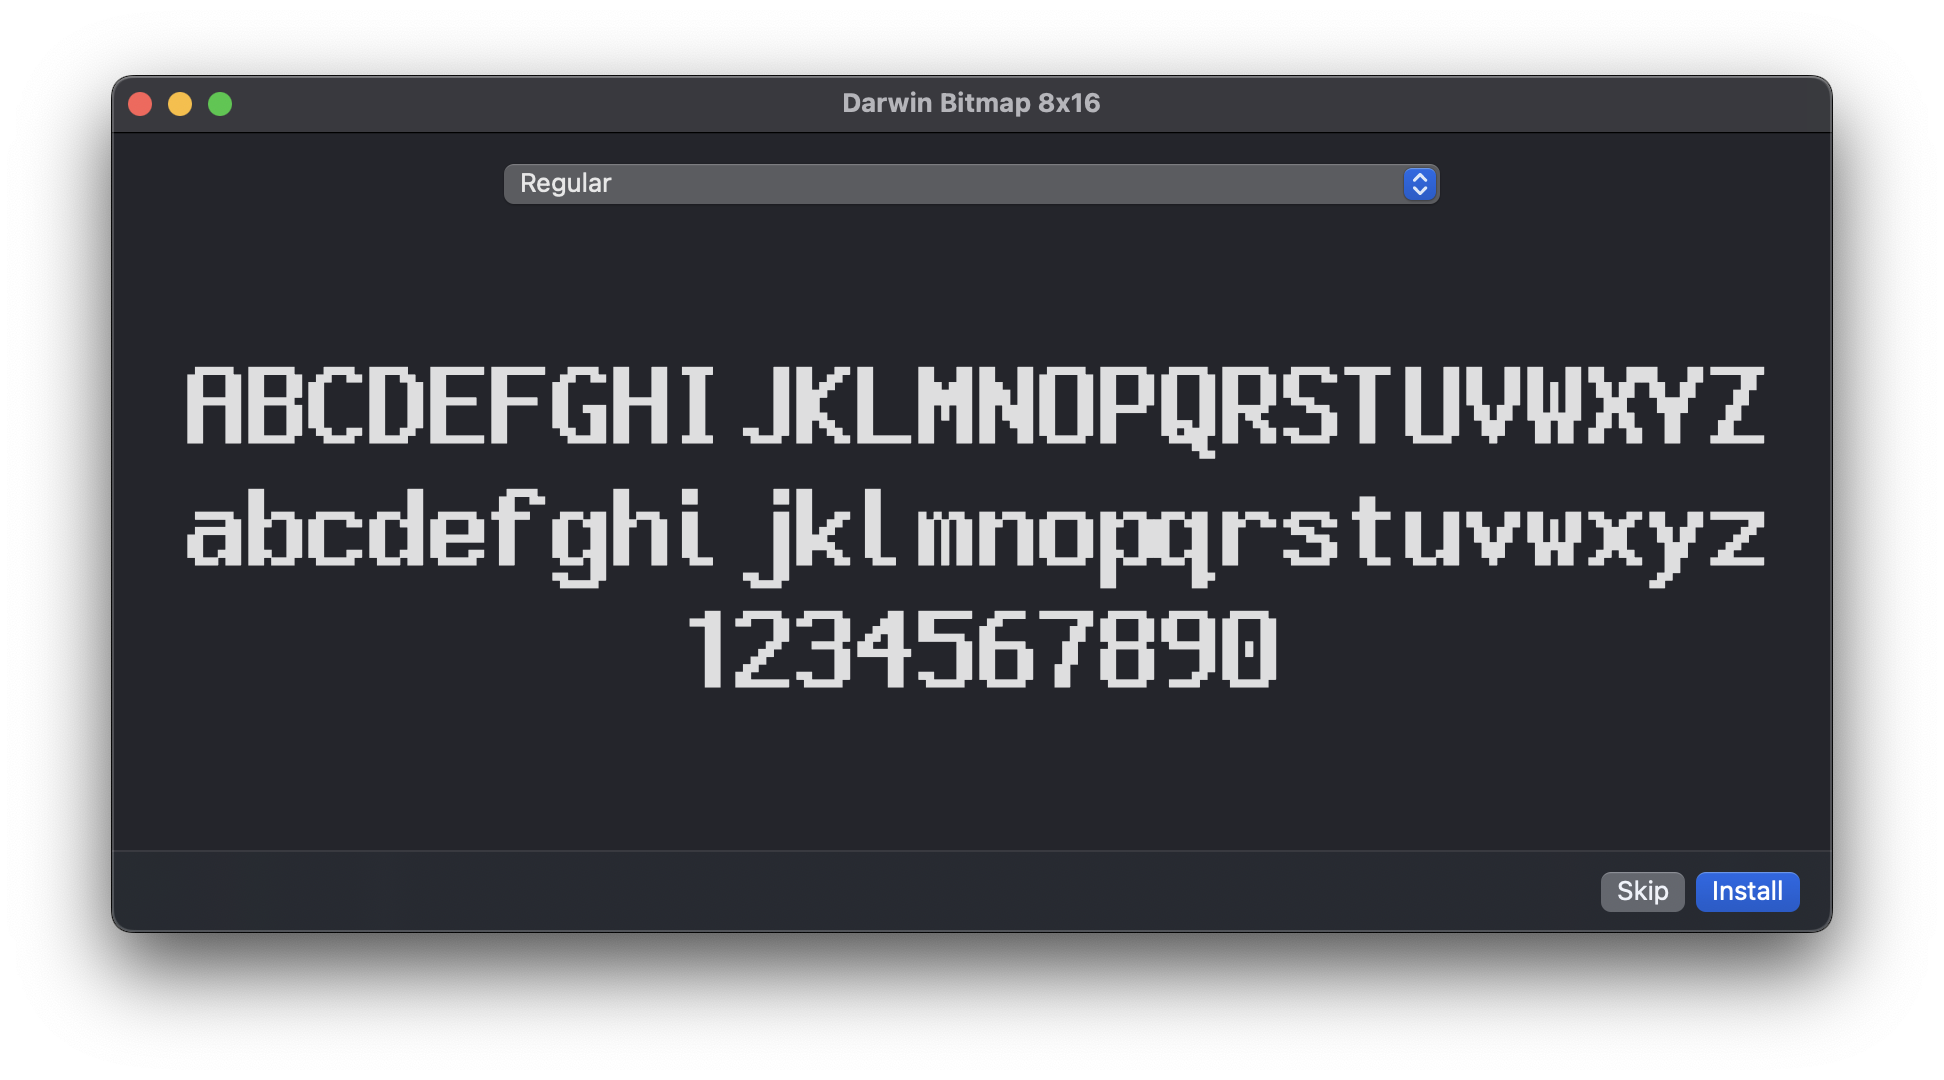
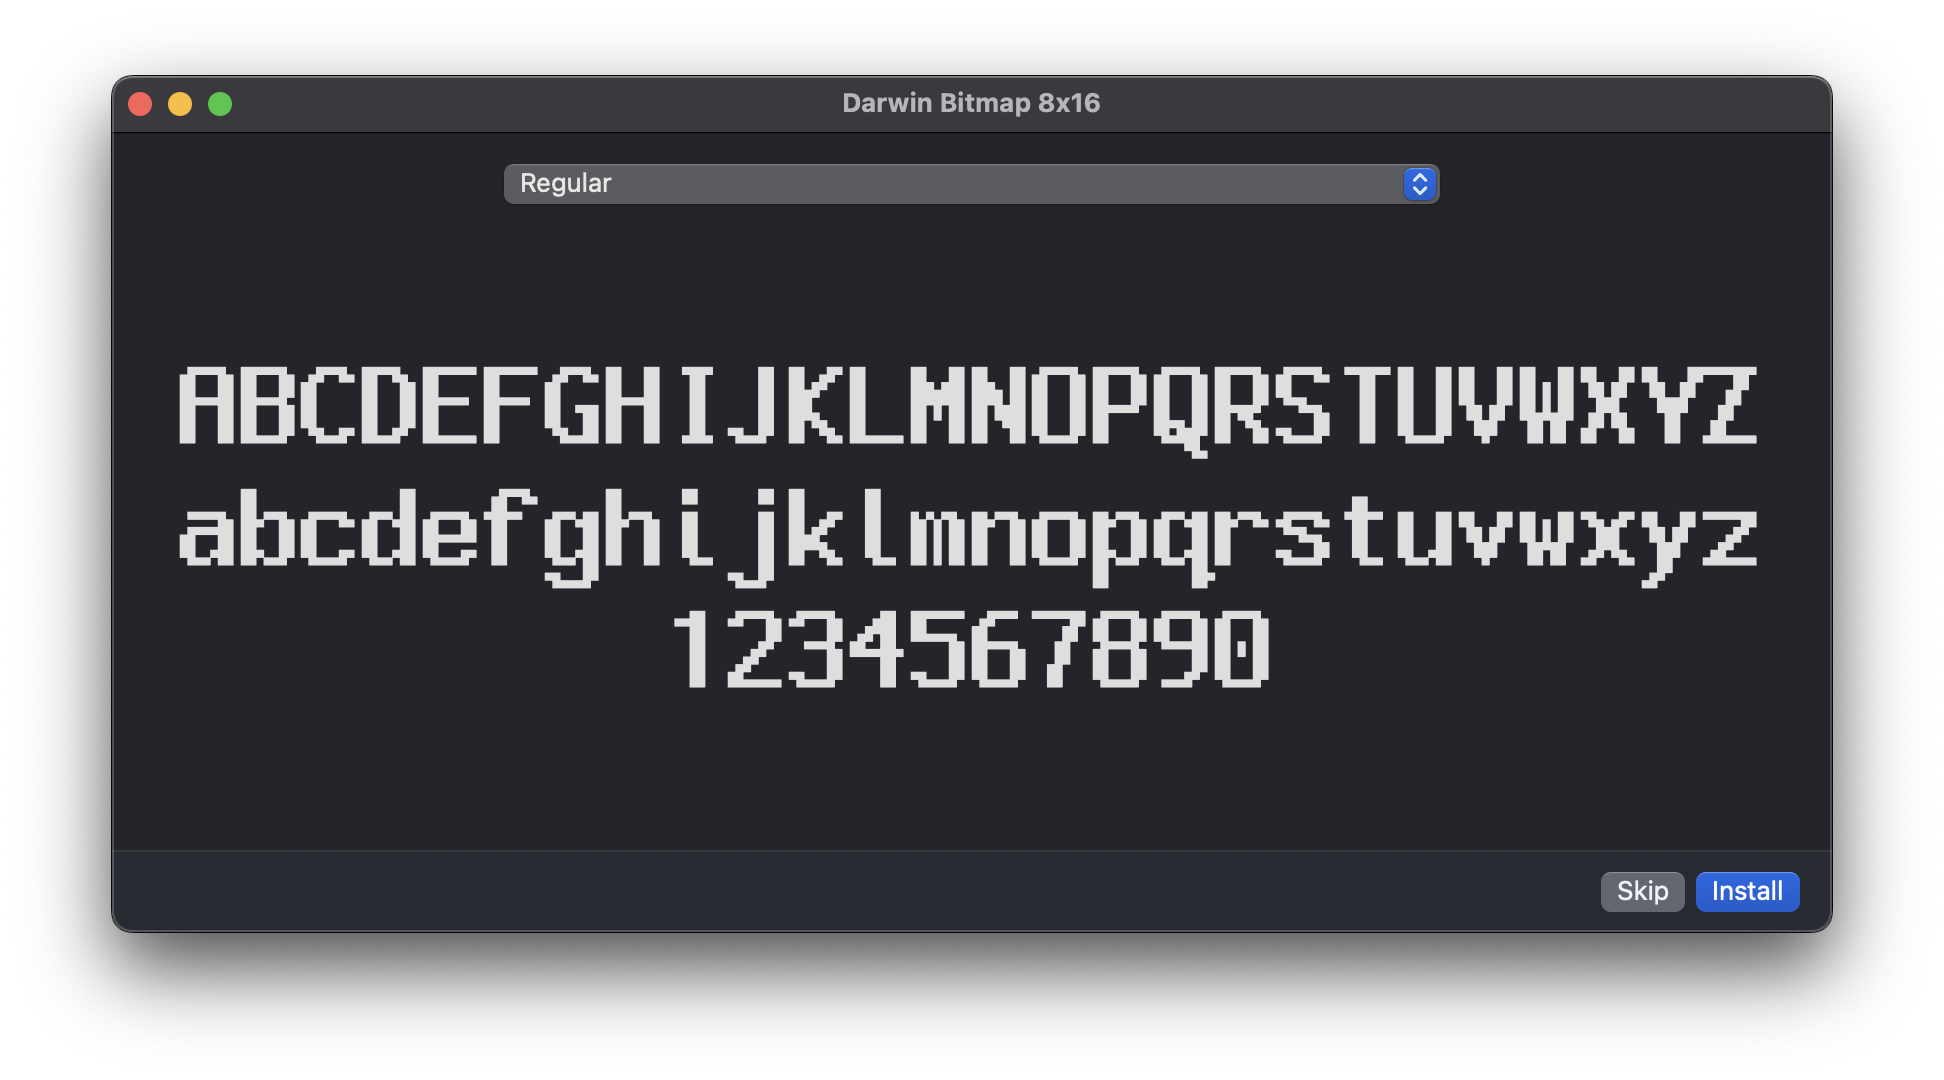
Fix font bearings

Changed region(s): [[0.0926, 0.4583, 0.9259, 0.6417], [0.0926, 0.3361, 0.9259, 0.4278]]

diff --git a/font_create.py b/font_create.py
@@ -48,7 +48,8 @@ def compute_side_bearings(bitmap):
         else:
             break
 
-    return left_pad * PIXEL_SIZE, right_pad * PIXEL_SIZE
+    # remember that the raw data is flipped horizontally, so reverse the counts
+    return right_pad * PIXEL_SIZE, left_pad * PIXEL_SIZE
 
 # Make SVG for each glyph
 def make_svg(char_index, bitmap):
